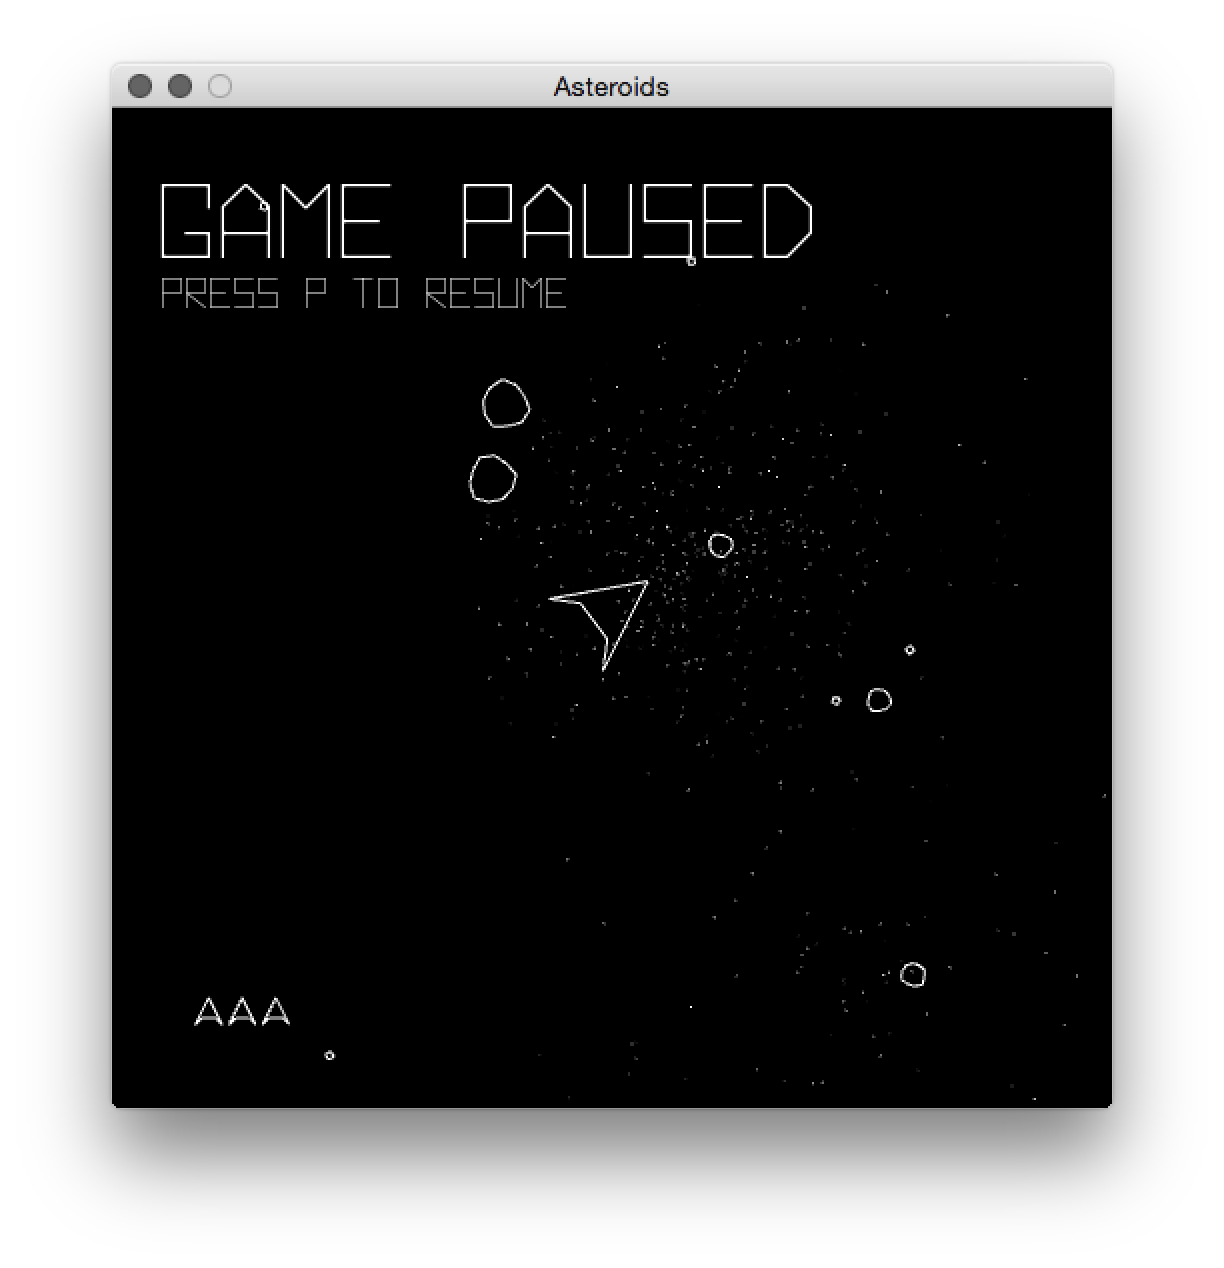
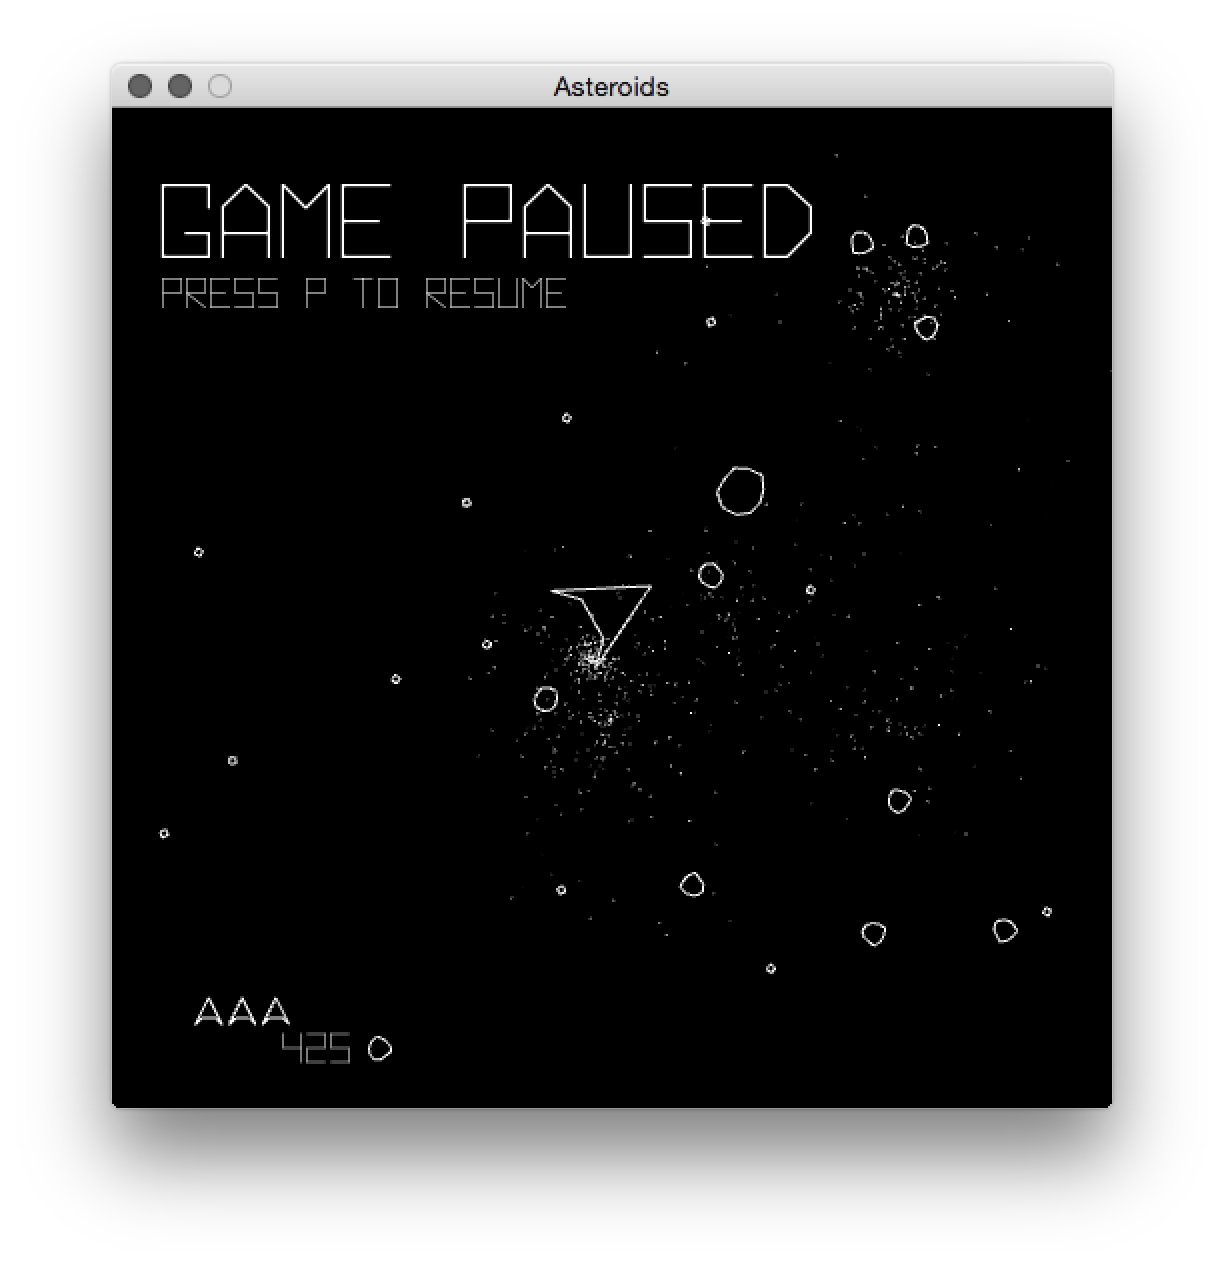
fixed score being shown while pasued

diff --git a/src/main.cpp b/src/main.cpp
@@ -256,7 +256,7 @@ public:
 
         text_shader.use();
 
-        if (state == GameState::PLAYING) {
+        if (state == GameState::PLAYING || state == GameState::PAUSED) {
             auto score_string = to_string(score);
             stringstream ss;
             ss << setw(8) << score_string;
@@ -268,7 +268,9 @@ public:
         } else if (state == GameState::OVER) {
             text_handler.draw("game over", 50, vec2(-0.9, 0.7));
             text_handler.draw("press space to retry", 20, vec2(-0.9, 0.6));
-        } else if (state == GameState::PAUSED) {
+        }
+
+        if (state == GameState::PAUSED) {
             text_handler.draw("game paused", 50, vec2(-0.9, 0.7));
             text_handler.draw("press p to resume", 20, vec2(-0.9, 0.6));
         }
